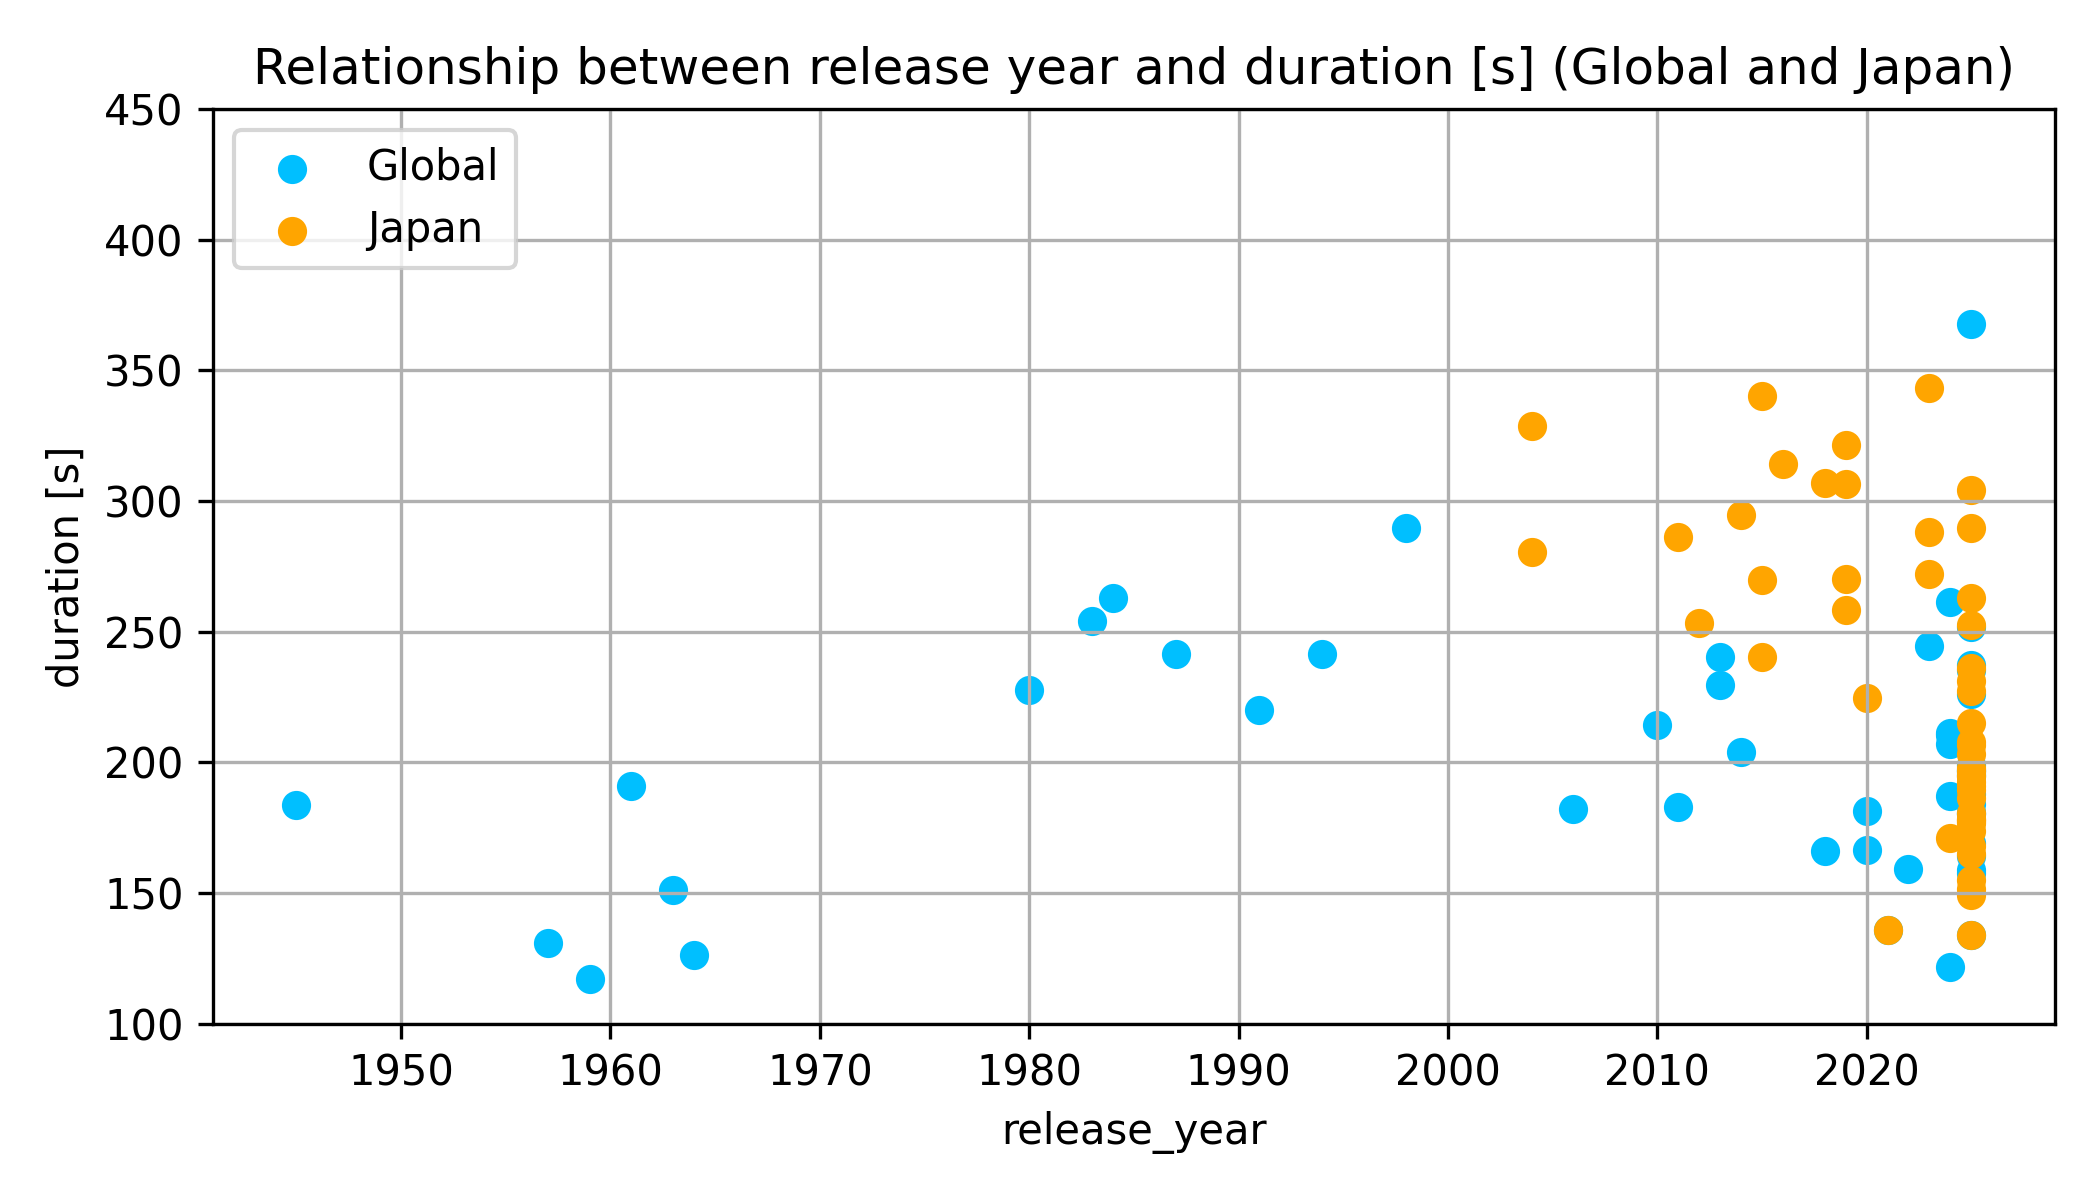
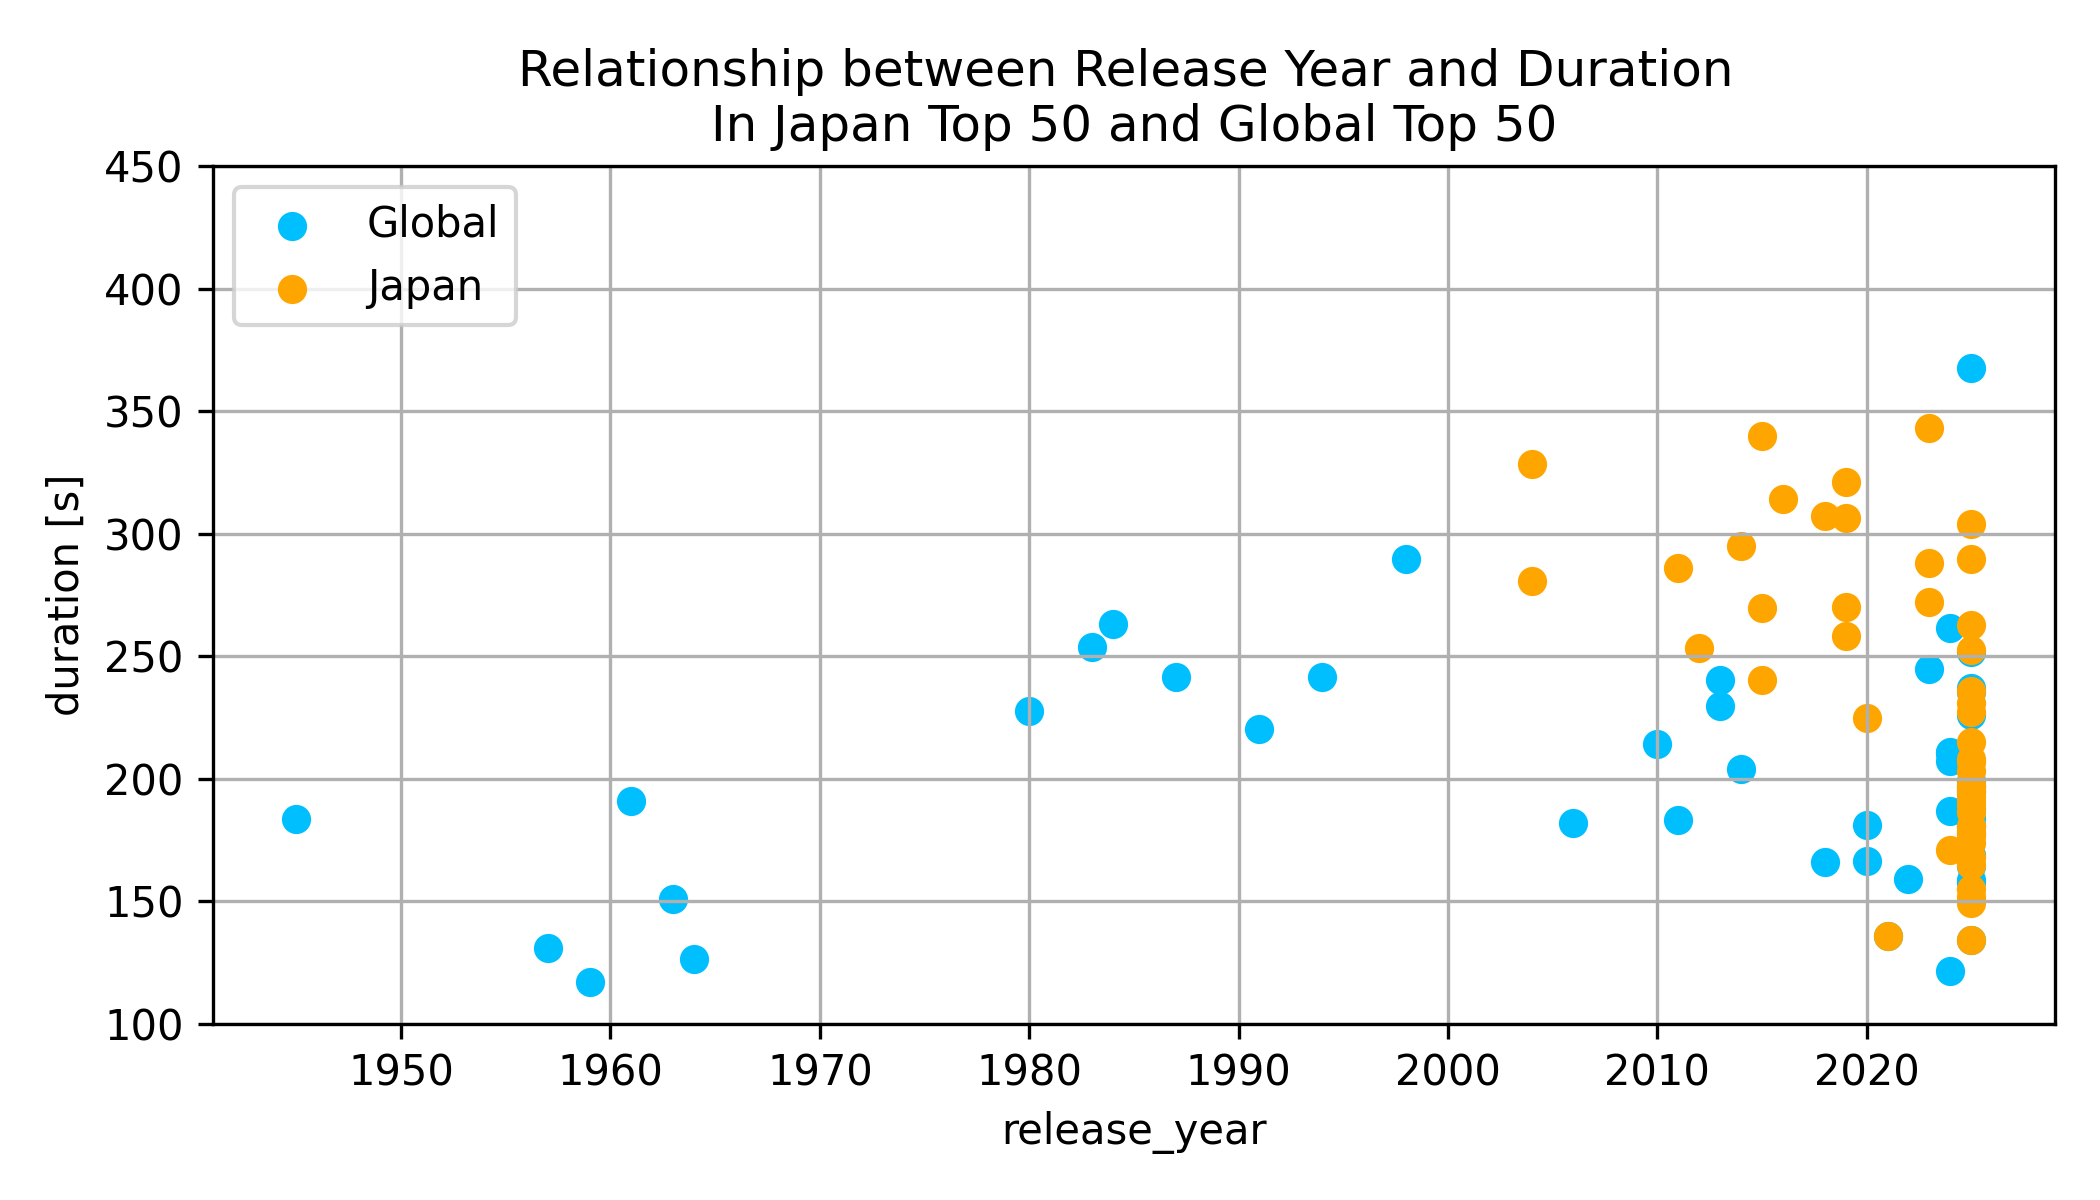
prog_spe2/report1終了

diff --git a/prog_spe2/report1/spotify_analysis.py b/prog_spe2/report1/spotify_analysis.py
@@ -33,29 +33,43 @@ def print_corr(df_both, df_japan, df_global):
     print(f'  {'r(Japan)':18s} = {r_japan:8.4f}')
     print(f'  {'r(Global)':18s} = {r_global:8.4f}')
     print(f'  {'r(Japan + Global)':18s} = {r_both:8.4f}')
-    
-# Japan + Global の線形回帰
-def regression_both(df_both):
-    x = df_both['release_year'].values
-    y = df_both['duration_ms'].values
 
-    result = linregress(x, y)
-
-    print('\n=== 線形回帰 (Japan + Global) ===')
-    print('duration_s = a * release_year + b としたとき、')
-    print(f'  {'a':3s} = {result.slope/1000:11.3f} [s/year]')
-    print(f'  {'b':3s} = {result.intercept/1000:11.3f} [s]')
-    print(f'  {'r':3s} = {result.rvalue:11.3f}')
-    print(f'  {'p':3s} = {result.pvalue:11.3e}')
-
-# Japan の線形回帰
+# Japan の線形回帰分析
 def regression_japan(df_japan):
     x = df_japan['release_year'].values
     y = df_japan['duration_ms'].values
 
     result = linregress(x, y)
 
-    print('\n=== 線形回帰 (Japan) ===')
+    print('\n=== 線形回帰分析分析 (Japan) ===')
+    print('duration_s = a * release_year + b としたとき、')
+    print(f'  {'a':3s} = {result.slope/1000:11.3f} [s/year]')
+    print(f'  {'b':3s} = {result.intercept/1000:11.3f} [s]')
+    print(f'  {'r':3s} = {result.rvalue:11.3f}')
+    print(f'  {'p':3s} = {result.pvalue:11.3e}')
+
+# Global の線形回帰分析
+def regression_global(df_global):
+    x = df_global['release_year'].values
+    y = df_global['duration_ms'].values
+
+    result = linregress(x, y)
+
+    print('\n=== 線形回帰分析 (Global) ===')
+    print('duration_s = a * release_year + b としたとき、')
+    print(f'  {'a':3s} = {result.slope/1000:11.3f} [s/year]')
+    print(f'  {'b':3s} = {result.intercept/1000:11.3f} [s]')
+    print(f'  {'r':3s} = {result.rvalue:11.3f}')
+    print(f'  {'p':3s} = {result.pvalue:11.3e}')
+    
+# Japan + Global の線形回帰分析
+def regression_both(df_both):
+    x = df_both['release_year'].values
+    y = df_both['duration_ms'].values
+
+    result = linregress(x, y)
+
+    print('\n=== 線形回帰分析 (Japan + Global) ===')
     print('duration_s = a * release_year + b としたとき、')
     print(f'  {'a':3s} = {result.slope/1000:11.3f} [s/year]')
     print(f'  {'b':3s} = {result.intercept/1000:11.3f} [s]')
@@ -100,7 +114,7 @@ def save_scatter_both(df_both, df_japan, df_global):
 
     plt.xlabel('release_year')
     plt.ylabel('duration [s]')
-    plt.title('Relationship between release year and duration [s] (Global and Japan)')
+    plt.title('Relationship between Release Year and Duration \nIn Japan Top 50 and Global Top 50')
     plt.ylim(100, 450)
     plt.grid(True)
     plt.legend(loc='upper left')
@@ -146,7 +160,7 @@ def save_scatter_japan(df_japan):
 
     plt.xlabel('release_year')
     plt.ylabel('duration [s]')
-    plt.title('Relationship between release year and duration [s] (Japan)')
+    plt.title('Relationship between Release Year and Duration \nIn Japan Top50 and the Linear Regression Line')
     plt.ylim(100, 450)
     plt.grid(True)
     plt.legend(loc='upper left')
@@ -191,7 +205,7 @@ def save_boxplot(df_both):
         showfliers=False,
     )
 
-    plt.title('Comparison of the Top 50 Weekly Spotify Charts in Japan and Global')
+    plt.title('Comparison of Feature Distributions for Japan Top50 and Global Top50', pad=40)
 
     plt.xlabel('')
     plt.ylabel('value (standardized)')
@@ -202,9 +216,10 @@ def save_boxplot(df_both):
         handles,
         labels,
         title='',
-        bbox_to_anchor=(1.02, 1),
-        loc='upper left',
-        borderaxespad=0.0,
+        loc='upper center',
+        bbox_to_anchor=(0.5, 1.18),
+        ncol=3,
+        frameon=False,
     )
 
     plt.tight_layout()
@@ -218,11 +233,14 @@ if __name__ == '__main__':
     # 相関係数
     print_corr(df_both, df_japan, df_global)
 
-    # 線形回帰 (global + Japan)
-    regression_both(df_both)
-
-    # 線形回帰（Japan)
+    # 線形回帰分析（Japan)
     regression_japan(df_japan)
+
+    # 線形回帰分析（Global)
+    regression_global(df_global)
+
+    # 線形回帰分析 (global + Japan)
+    regression_both(df_both)
 
     # t検定
     run_ttests(df_japan, df_global)
